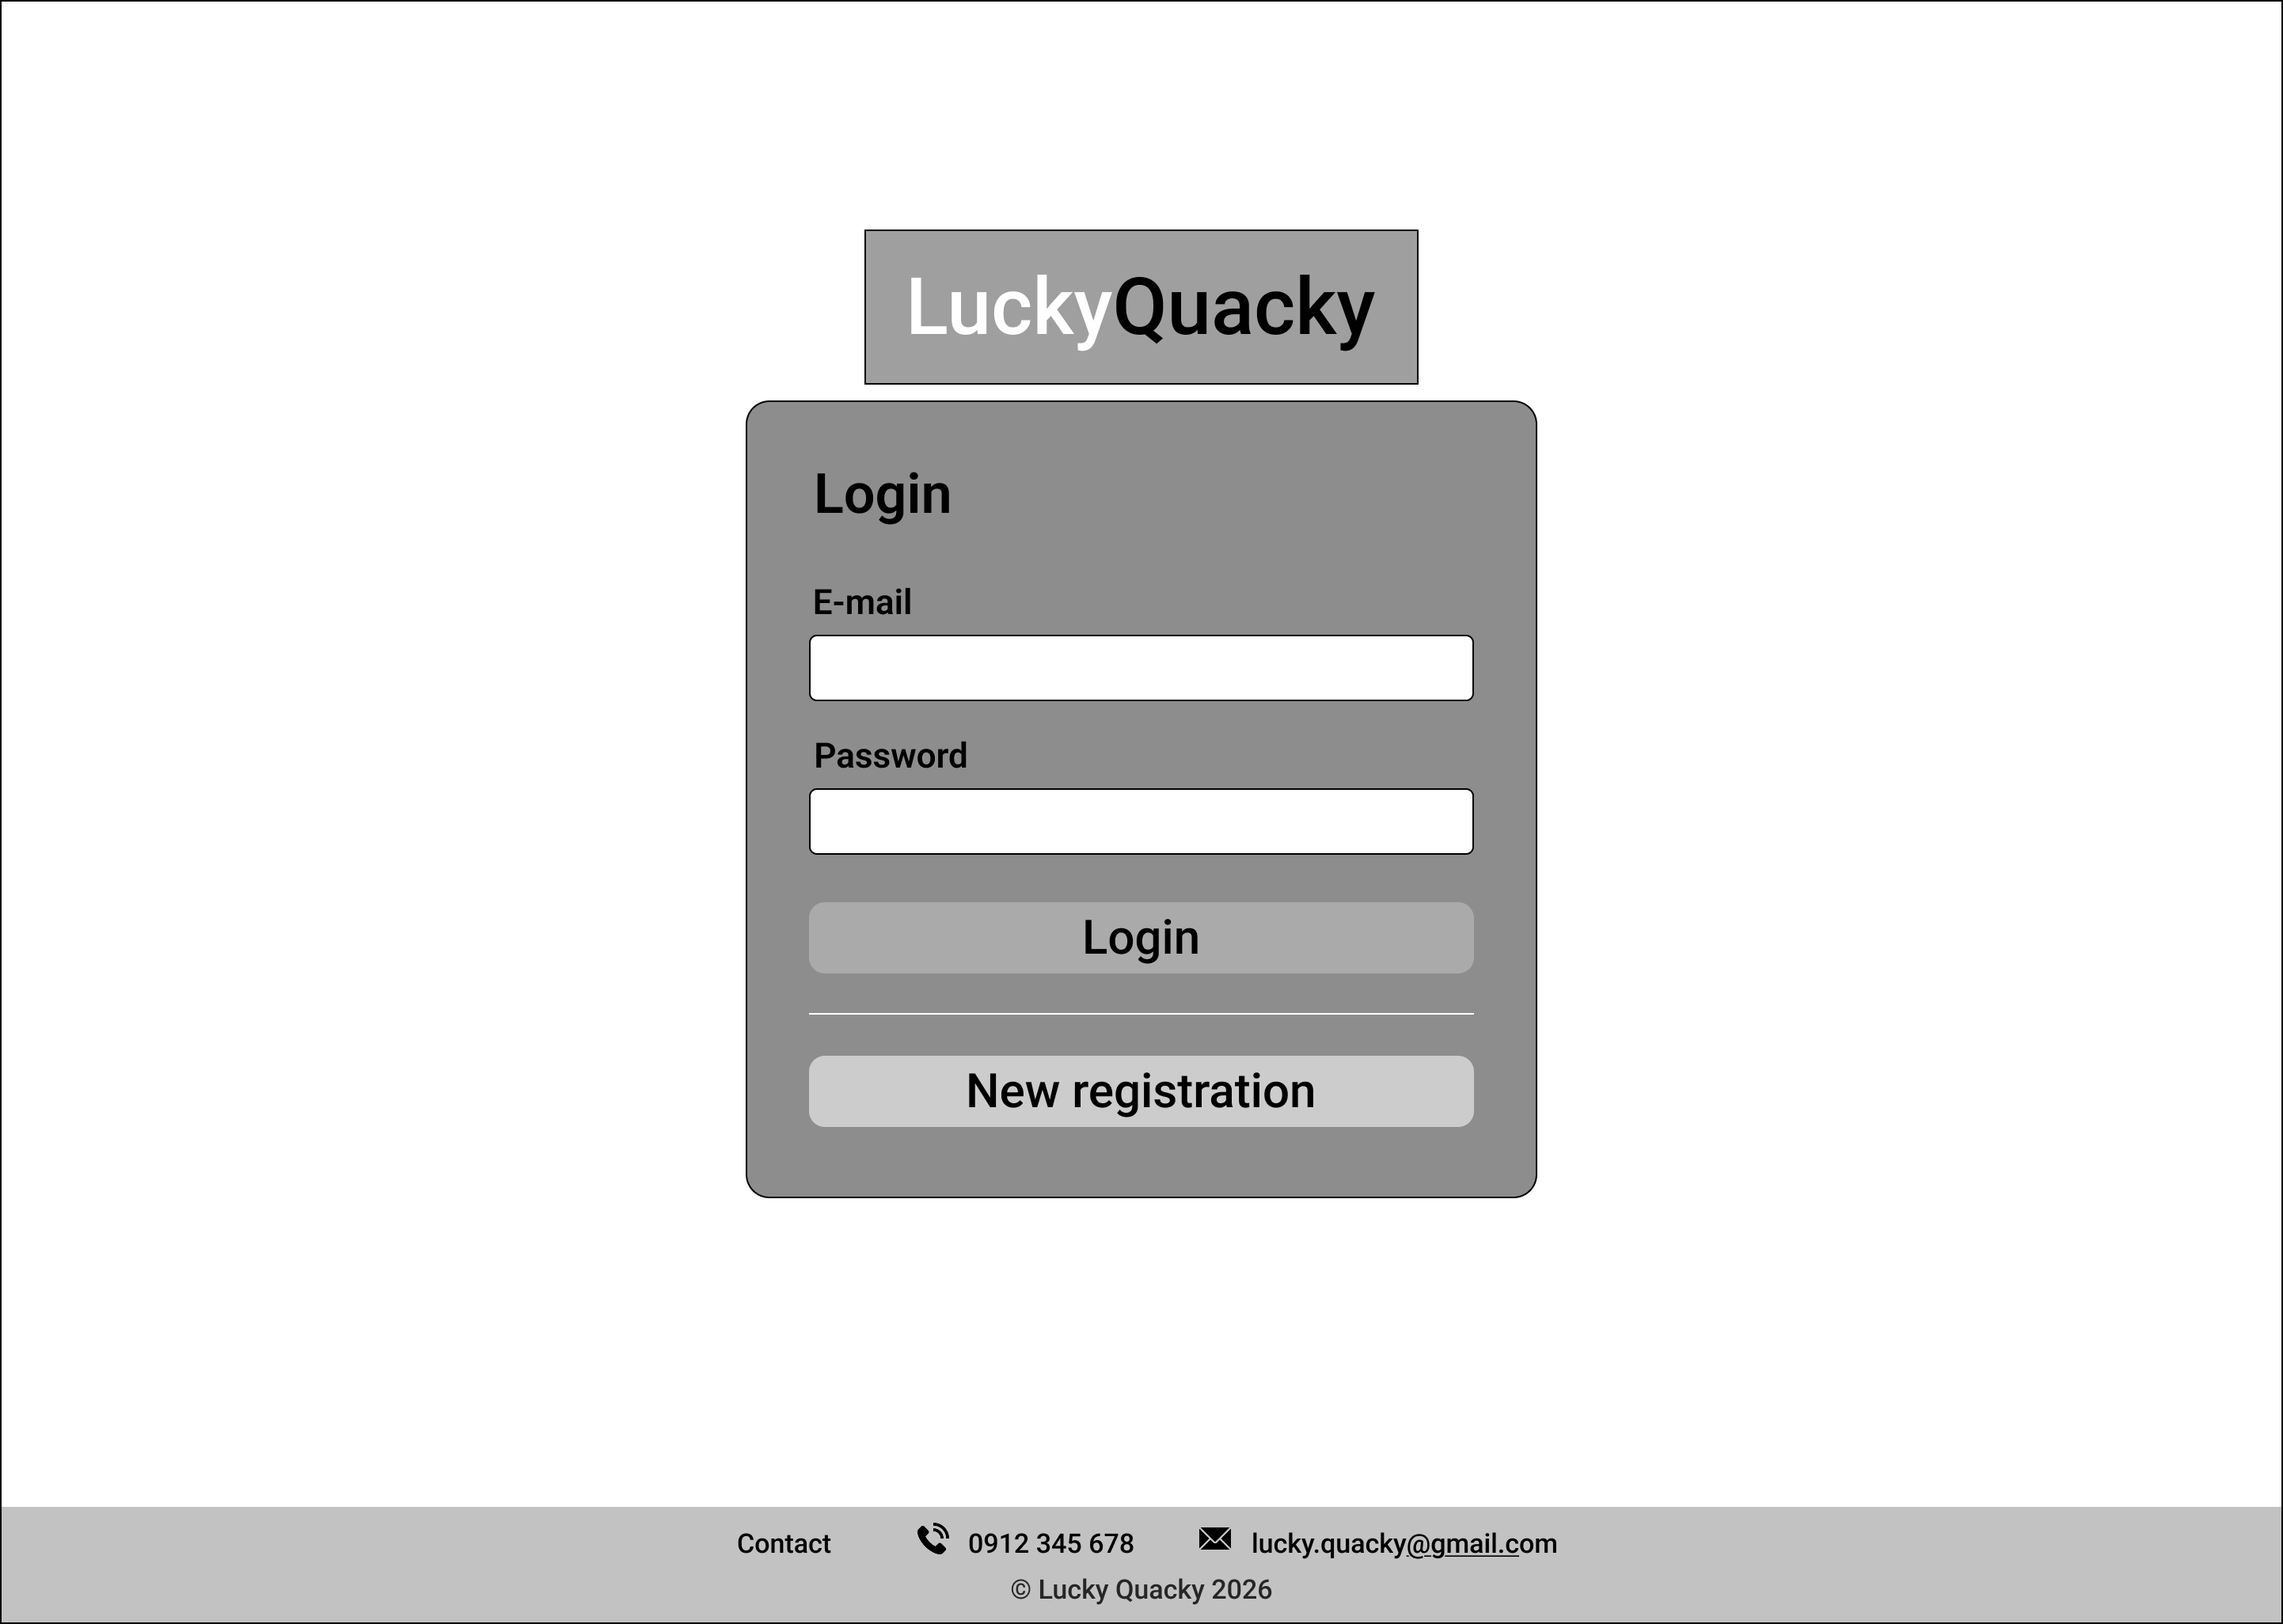
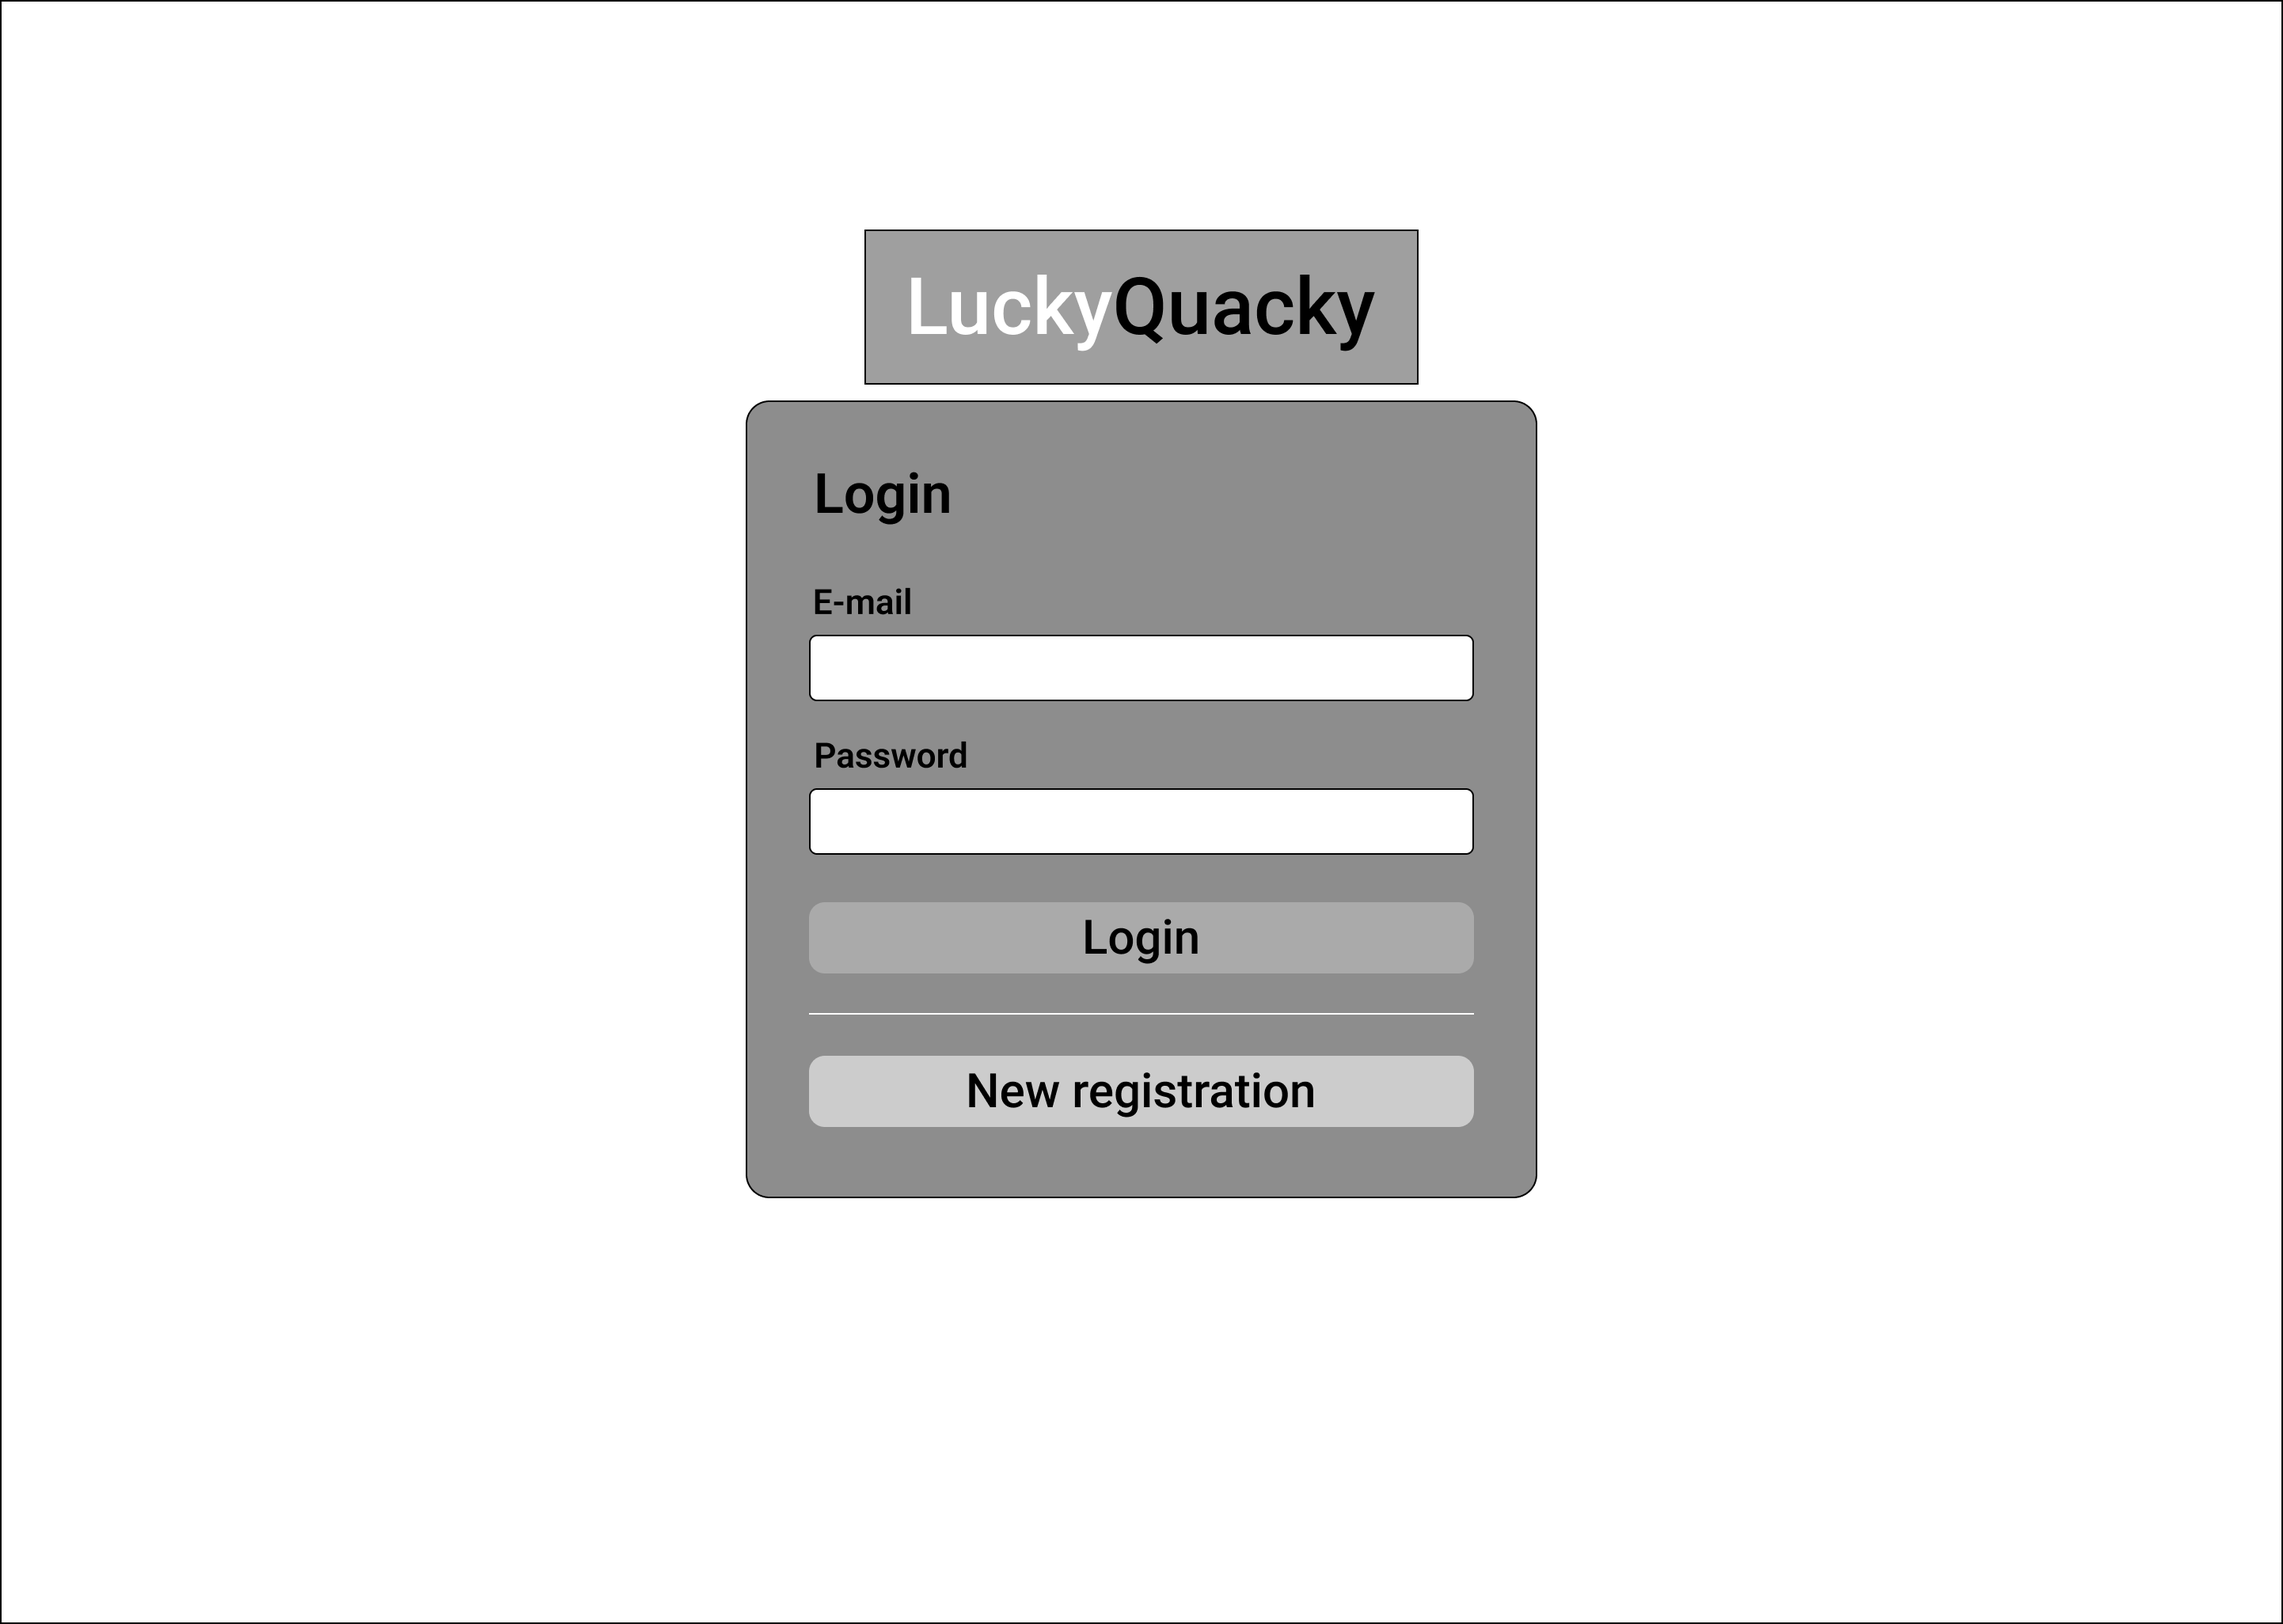
Pridanie skíc

Changed region(s): [[0.0, 0.9045, 1.0, 1.0]]

diff --git a/login-user.html b/login-user.html
@@ -44,35 +44,6 @@
     </section>
 </main>
 
-<footer class="footer">
-    <div class="footer-contact">
-        <span class="contact-label">Contact</span>
-
-        <div class="contact-item">
-            <svg class="footer-svg" xmlns="http://www.w3.org/2000/svg" viewBox="0 0 24 24" width="20" height="20">
-                <path d="M6.62 10.79a15.053 15.053 0 006.59 6.59l2.2-2.2c.27-.27.67-.36 1.02-.24 1.12.37 2.33.57 3.57.57.55 0 1 .45 1 1V20c0 .55-.45 1-1 1-9.39 0-17-7.61-17-17 0-.55.45-1 1-1h3.5c.55 0 1 .45 1 1 0 1.25.2 2.45.57 3.57.11.35.03.74-.25 1.02l-2.2 2.2z" fill="currentColor"/>
-            </svg>
-            <span>0912 345 678</span>
-        </div>
-
-        <div class="contact-item">
-            <svg class="footer-svg" xmlns="http://www.w3.org/2000/svg" viewBox="0 0 24 24" width="20" height="20">
-                <path d="M20 4H4c-1.1 0-1.99.9-1.99 2L2 18c0 1.1.9 2 2 2h16c1.1 0 2-.9 2-2V6c0-1.1-.9-2-2-2zm0 4l-8 5-8-5V6l8 5 8-5v2z" fill="currentColor"/>
-            </svg>
-            <a href="mailto:lucky.quacky@gmail.com">lucky.quacky@gmail.com</a>
-        </div>
-    </div>
-
-    <p class="copyright">© Lucky Quacky 2026</p>
-
-    <div class="image-credits">
-        <a href="https://www.flaticon.com/free-icons/duck" title="duck icons">Duck icons created by vectorsmarket15 - Flaticon</a> |
-        <a href="https://www.flaticon.com/free-icons/rubber-duck" title="rubber-duck icons">Rubber-duck icons created by Freepik - Flaticon</a> |
-        <a href="https://www.flaticon.com/free-icons/duck" title="duck icons">Duck icons created by June Design - Flaticon</a>
-        <a href="https://www.flaticon.com/free-icons/rubber-duck" title="rubber duck icons">Rubber duck icons created by kerismaker - Flaticon</a>
-        <a href="https://www.flaticon.com/free-icons/duck" title="duck icons">Duck icons created by Freepik - Flaticon</a>
-    </div>
-</footer>
 
 </body>
 </html>

diff --git a/register-user.html b/register-user.html
@@ -49,35 +49,6 @@
     </section>
 </main>
 
-<footer class="footer">
-    <div class="footer-contact">
-        <span class="contact-label">Contact</span>
-
-        <div class="contact-item">
-            <svg class="footer-svg" xmlns="http://www.w3.org/2000/svg" viewBox="0 0 24 24" width="20" height="20">
-                <path d="M6.62 10.79a15.053 15.053 0 006.59 6.59l2.2-2.2c.27-.27.67-.36 1.02-.24 1.12.37 2.33.57 3.57.57.55 0 1 .45 1 1V20c0 .55-.45 1-1 1-9.39 0-17-7.61-17-17 0-.55.45-1 1-1h3.5c.55 0 1 .45 1 1 0 1.25.2 2.45.57 3.57.11.35.03.74-.25 1.02l-2.2 2.2z" fill="currentColor"/>
-            </svg>
-            <span>0912 345 678</span>
-        </div>
-
-        <div class="contact-item">
-            <svg class="footer-svg" xmlns="http://www.w3.org/2000/svg" viewBox="0 0 24 24" width="20" height="20">
-                <path d="M20 4H4c-1.1 0-1.99.9-1.99 2L2 18c0 1.1.9 2 2 2h16c1.1 0 2-.9 2-2V6c0-1.1-.9-2-2-2zm0 4l-8 5-8-5V6l8 5 8-5v2z" fill="currentColor"/>
-            </svg>
-            <a href="mailto:lucky.quacky@gmail.com">lucky.quacky@gmail.com</a>
-        </div>
-    </div>
-
-    <p class="copyright">© Lucky Quacky 2026</p>
-
-    <div class="image-credits">
-        <a href="https://www.flaticon.com/free-icons/duck" title="duck icons">Duck icons created by vectorsmarket15 - Flaticon</a> |
-        <a href="https://www.flaticon.com/free-icons/rubber-duck" title="rubber-duck icons">Rubber-duck icons created by Freepik - Flaticon</a> |
-        <a href="https://www.flaticon.com/free-icons/duck" title="duck icons">Duck icons created by June Design - Flaticon</a>
-        <a href="https://www.flaticon.com/free-icons/rubber-duck" title="rubber duck icons">Rubber duck icons created by kerismaker - Flaticon</a>
-        <a href="https://www.flaticon.com/free-icons/duck" title="duck icons">Duck icons created by Freepik - Flaticon</a>
-    </div>
-</footer>
 
 </body>
 </html>
